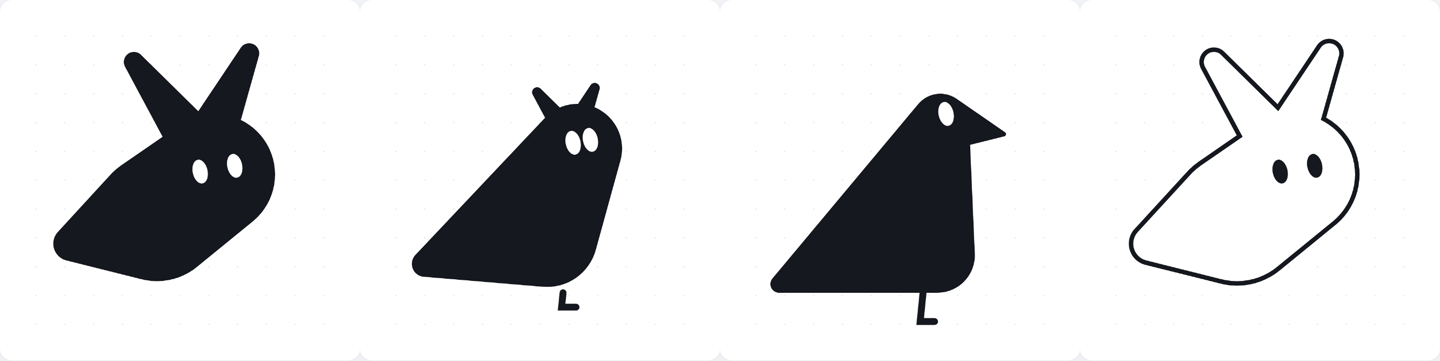
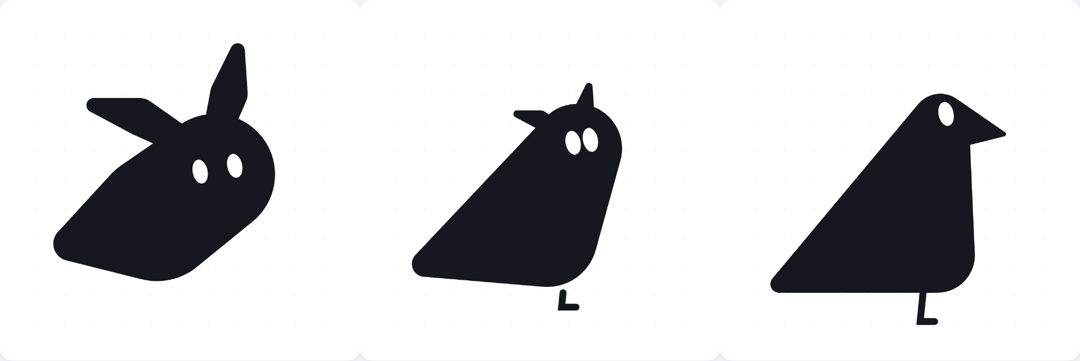
Pip Shape Studio: leaf ears (root, middle, tip), back ear swept low like Aaron's drawing; the new default silhouette
Claude-Session: https://claude.ai/code/session_01Fk5mX8SBdThAyaXsRCBZu6

Changed region(s): [[0.275, 0.0914, 0.9472, 0.9141], [0.0306, 0.1219, 0.275, 0.7922], [0.6417, 0.8837, 0.6722, 0.9141]]

diff --git a/app/design/pip-shape-studio.html b/app/design/pip-shape-studio.html
@@ -35,7 +35,7 @@
   <aside>
     <div class="card"><h3>Edit</h3>
       <div class="seg" id="who"><button data-w="pip" class="on">💧 Pip</button><button data-w="pigeon">🐦 Your pigeon</button></div>
-      <div class="seg" style="margin-top:8px"><button id="dropBtn">💧 Start Pip from the Drop</button><button id="earsBtn">🐰 Start Pip with ears</button></div>
+      <div class="seg" style="margin-top:8px"><button id="dropBtn">💧 Start Pip from the Drop</button><button id="earsBtn">🍃 Start Pip with leaf ears</button></div>
       <p class="note">Drag a dot to move a circle, the orange dot to resize it. Fewer circles is better.</p>
     </div>
     <div class="card"><h3>Pip ⇄ pigeon</h3>
@@ -61,25 +61,26 @@
 // Pip: head + body + a tail point (the drop), and two ears, each a root circle and a tip. Pigeon: Aaron's wedge.
 // No glass, no colour, no wings yet. Those come after the shape is agreed.
 
-const KEY = 'pipStudio.shapes2';
+const KEY = 'pipStudio.shapes3';
 const PIP = () => ({
   head: [62, 48, 21], body: [42, 63, 22], tail: [12, 72, 6],
-  upRoot: [62, 32, 8], upTip: [74, 6, 3.5], backRoot: [52, 33, 8], backTip: [34, 9, 3.5],
+  upRoot: [63, 33, 5], upMid: [67, 20, 6.5], upTip: [70, 5, 2.5],
+  backRoot: [50, 36, 5], backMid: [36, 28, 6.5], backTip: [20, 24, 2.5],
   beak: [62, 48, 0], leg: null, eyes: [[57, 47], [69, 45]],
 });
 // The Drop look (Pip Looks): one round body and a point. Here the point is up, like an ear. Ears tucked away.
 const DROP = () => ({
   head: [51, 52, 24], body: [50, 64, 26], tail: [56, 6, 3],
-  upRoot: [51, 52, 0], upTip: [51, 52, 0], backRoot: [51, 52, 0], backTip: [51, 52, 0],
+  upRoot: [51, 52, 0], upMid: [51, 52, 0], upTip: [51, 52, 0], backRoot: [51, 52, 0], backMid: [51, 52, 0], backTip: [51, 52, 0],
   beak: [51, 52, 0], leg: null, eyes: [[42, 62], [58, 62]],
 });
 const PIGEON = () => ({
   head: [64, 30, 10], body: [63, 76, 13], tail: [8, 86, 3],
-  upRoot: [64, 30, 0], upTip: [64, 30, 0], backRoot: [64, 30, 0], backTip: [64, 30, 0],
+  upRoot: [64, 30, 0], upMid: [64, 30, 0], upTip: [64, 30, 0], backRoot: [64, 30, 0], backMid: [64, 30, 0], backTip: [64, 30, 0],
   beak: [86, 34, .8], leg: [58, 89, 57, 99], eyes: [[66, 27], [66, 27]],
 });
-const GROUPS = [['head', 'body', 'tail'], ['upRoot', 'upTip'], ['backRoot', 'backTip'], ['head', 'beak']];
-const EDITABLE = { pip: ['head', 'body', 'tail', 'upRoot', 'upTip', 'backRoot', 'backTip'], pigeon: ['head', 'body', 'tail', 'beak'] };
+const GROUPS = [['head', 'body', 'tail'], ['upRoot', 'upMid', 'upTip'], ['backRoot', 'backMid', 'backTip'], ['head', 'beak']];
+const EDITABLE = { pip: ['head', 'body', 'tail', 'upRoot', 'upMid', 'upTip', 'backRoot', 'backMid', 'backTip'], pigeon: ['head', 'body', 'tail', 'beak'] };
 
 let shapes = { pip: PIP(), pigeon: PIGEON() };
 try { const s = JSON.parse(localStorage.getItem(KEY)); if (s && s.pip && s.pigeon) shapes = s; } catch (e) {}
